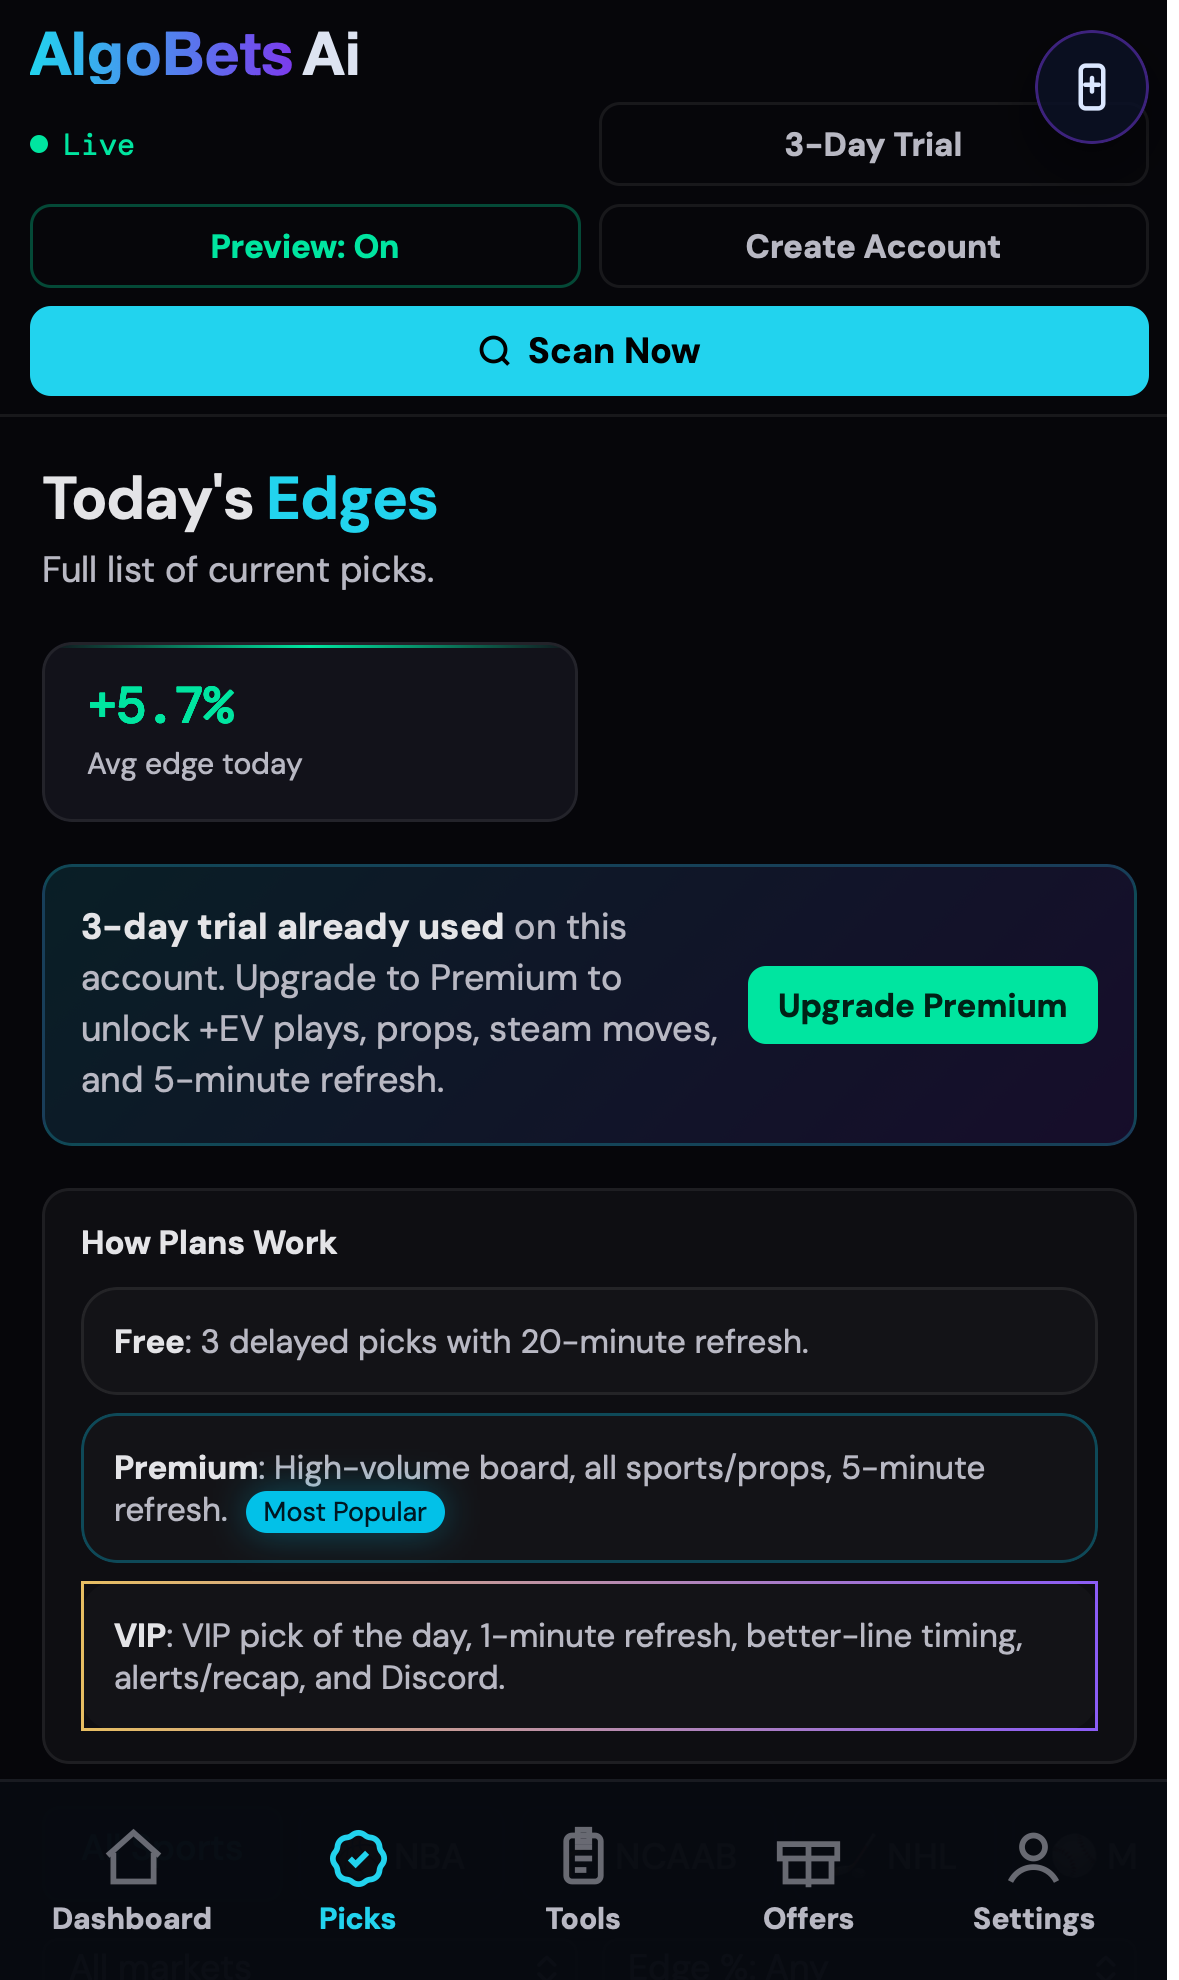
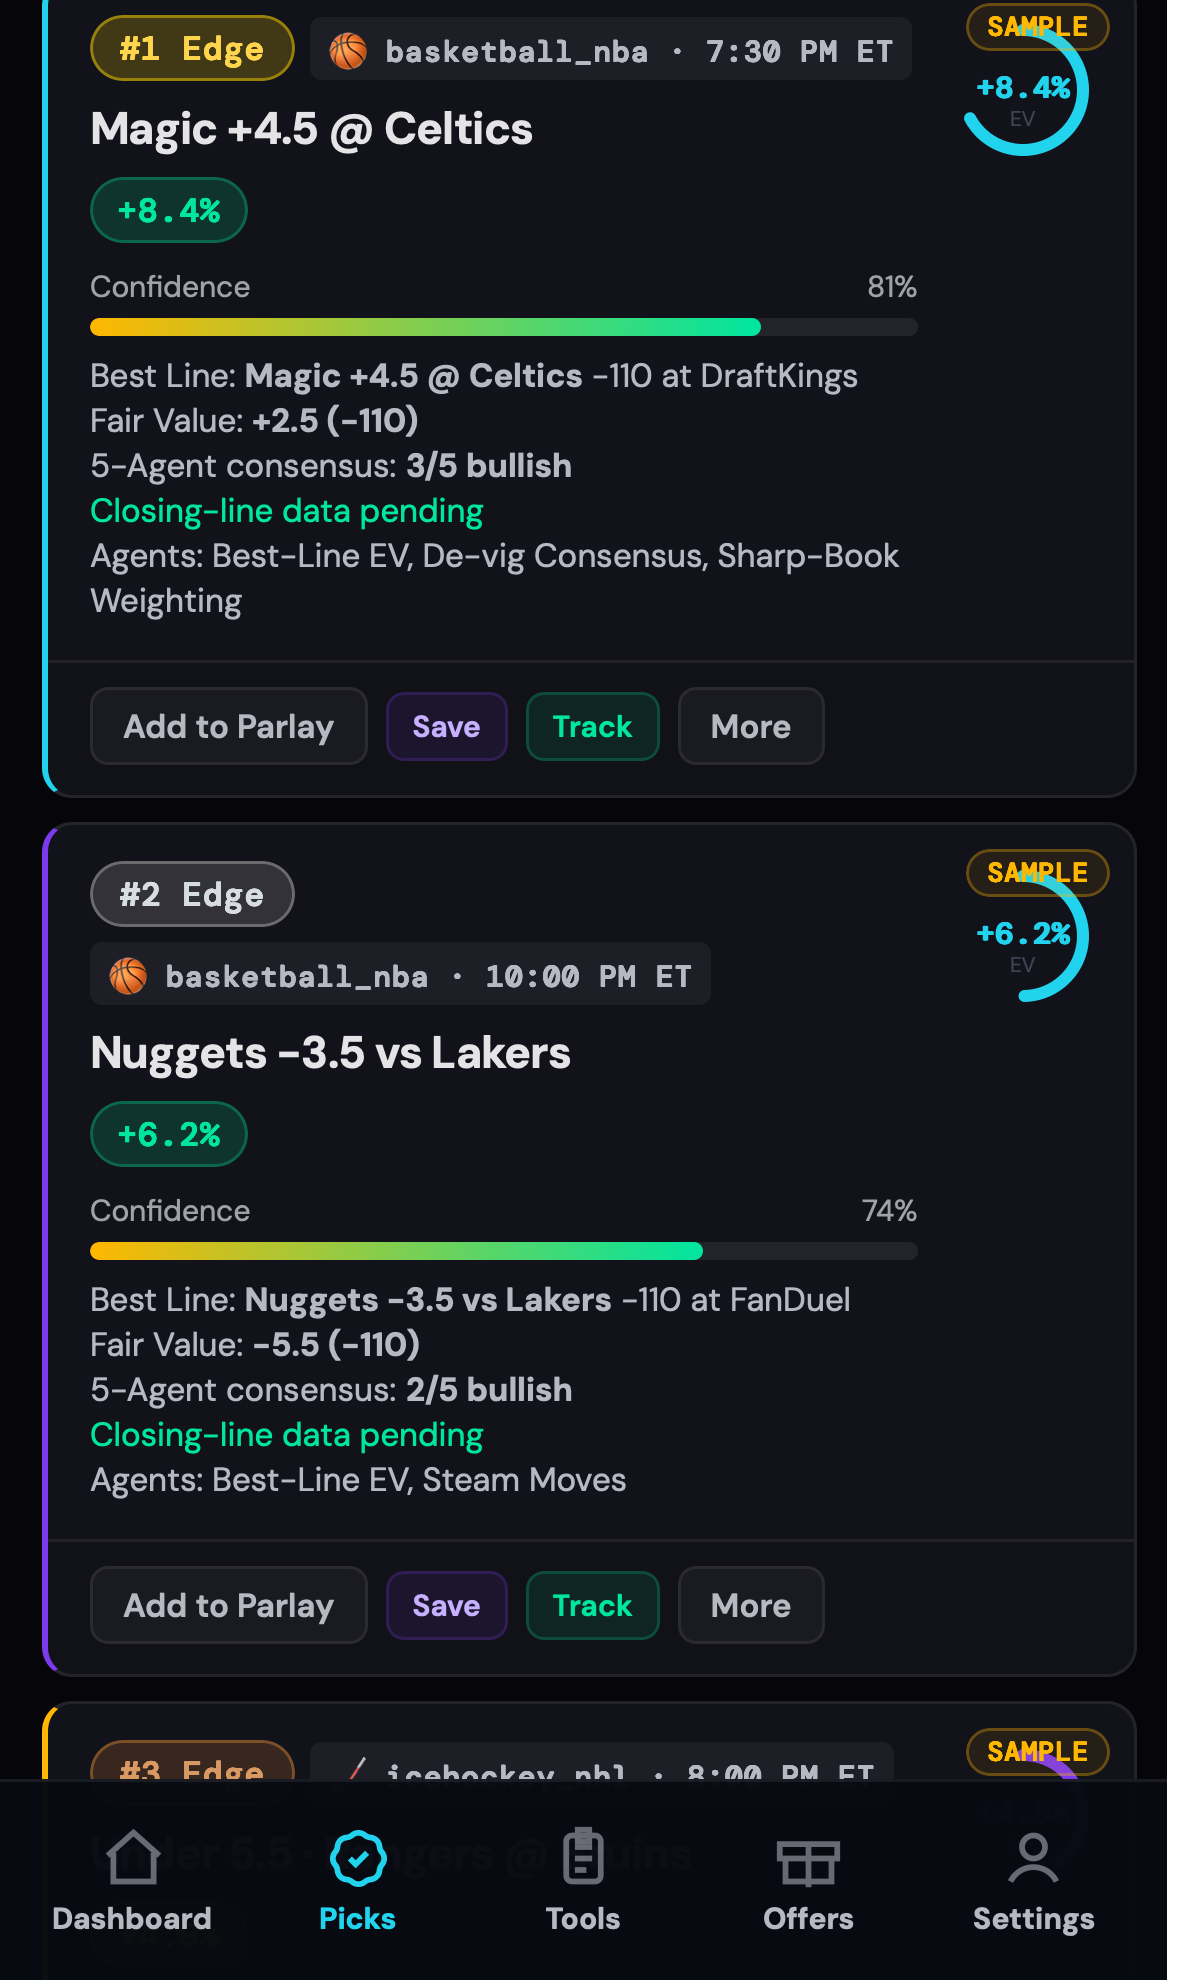
Use scrolled VIP picks screenshot in landing and add demo capture overrides

diff --git a/app.html b/app.html
@@ -2064,12 +2064,16 @@ const _checkoutStatus = String(_qp.get('checkout') || '').trim().toLowerCase();
 const _upgradeFromQp = String(_qp.get('upgrade') || '').trim().toLowerCase();
 const _authFromQp = String(_qp.get('auth') || '').trim().toLowerCase();
 const _tabFromQp = String(_qp.get('tab') || '').trim().toLowerCase();
+const _mockPlanFromQp = String(_qp.get('mock_plan') || '').trim().toLowerCase();
+const _shotScrollRaw = Number(_qp.get('shot_scroll') || 0);
 const START_TAB_ALLOW = new Set([
   'home','picks','tools','premium','vip','vip-core','vip-execution','vip-portfolio','vip-alerts','vip-discord','vip-reports',
   'odds','offers','live','props','ev','steam','fades','parlay','boost','perf','history','community','profile','guide','more'
 ]);
 const START_TAB_QP = START_TAB_ALLOW.has(_tabFromQp) ? _tabFromQp : '';
 const FORCE_DEMO_MODE = ['1', 'true', 'yes', 'y'].includes(String(_qp.get('demo') || '').trim().toLowerCase());
+const MOCK_PLAN_QP = ['premium', 'vip'].includes(_mockPlanFromQp) ? _mockPlanFromQp : '';
+const SHOT_SCROLL_Y = Number.isFinite(_shotScrollRaw) ? Math.max(0, Math.floor(_shotScrollRaw)) : 0;
 const DEMO_QP_SET = _qp.has('demo');
 if (DEMO_QP_SET) {
   localStorage.setItem(DEMO_MODE_KEY, FORCE_DEMO_MODE ? '1' : '0');
@@ -2152,6 +2156,7 @@ let vipLiveTicker = null;
 let CLVDATA = null;
 let AGENTWEIGHTS = null;
 let ALERTPACKS = null;
+if (FORCE_DEMO_MODE && MOCK_PLAN_QP) currentPlan = MOCK_PLAN_QP;
 let AFFILIATE = null;
 let affiliateLinks = {...DEFAULT_AFFILIATE_LINKS};
 let affiliateStats = {total_clicks: 0, by_book: {}, last_click_ts: 0};
@@ -5572,6 +5577,11 @@ function ensureBillingUser() {
 }
 
 async function fetchPlan() {
+  if (FORCE_DEMO_MODE && MOCK_PLAN_QP) {
+    currentPlan = MOCK_PLAN_QP;
+    updatePlanUi();
+    return;
+  }
   const prevPlan = normalizePlan(currentPlan);
   try {
     const res = await backendGet('/api/plan');
@@ -5589,6 +5599,14 @@ async function fetchPlan() {
     currentPlan = 'free';
     updatePlanUi();
   }
+}
+
+function applyMarketingShotOverrides() {
+  if (!SHOT_SCROLL_Y) return;
+  const apply = () => window.scrollTo({top: SHOT_SCROLL_Y, behavior: 'auto'});
+  setTimeout(apply, 500);
+  setTimeout(apply, 1500);
+  setTimeout(apply, 2800);
 }
 
 async function fetchPricing() {
@@ -7562,6 +7580,7 @@ loadTrialStatus();
 doScan(true);
 startAutoRefresh();
 startVipLiveTicker();
+applyMarketingShotOverrides();
 </script>
 </body>
 </html>

diff --git a/landing-improved.html b/landing-improved.html
@@ -1020,7 +1020,6 @@
       <li><a href="#features">Features</a></li>
       <li><a href="#pricing">Pricing</a></li>
       <li><a href="#faq">FAQ</a></li>
-      <li><a class="nav-login" href="app.html?auth=login&src=landing_nav_login">Already registered? Log in to your account</a></li>
       <!-- ➡  Replace # with your actual app URL -->
       <li><a class="nav-cta" href="app.html">Launch App →</a></li>
     </ul>
